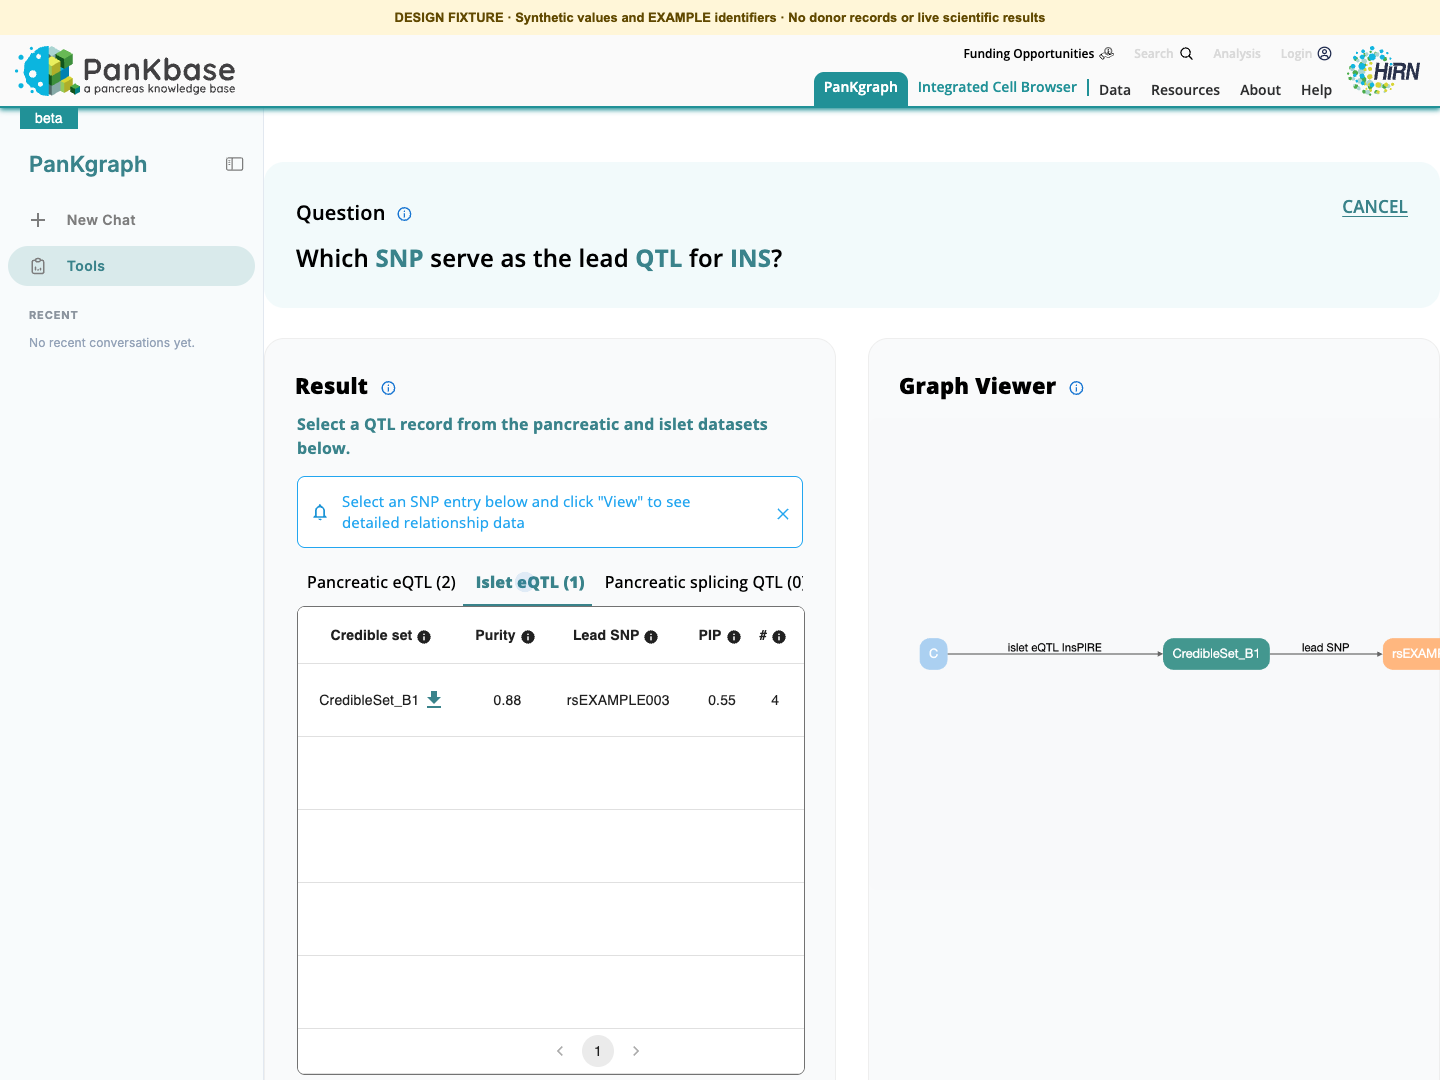
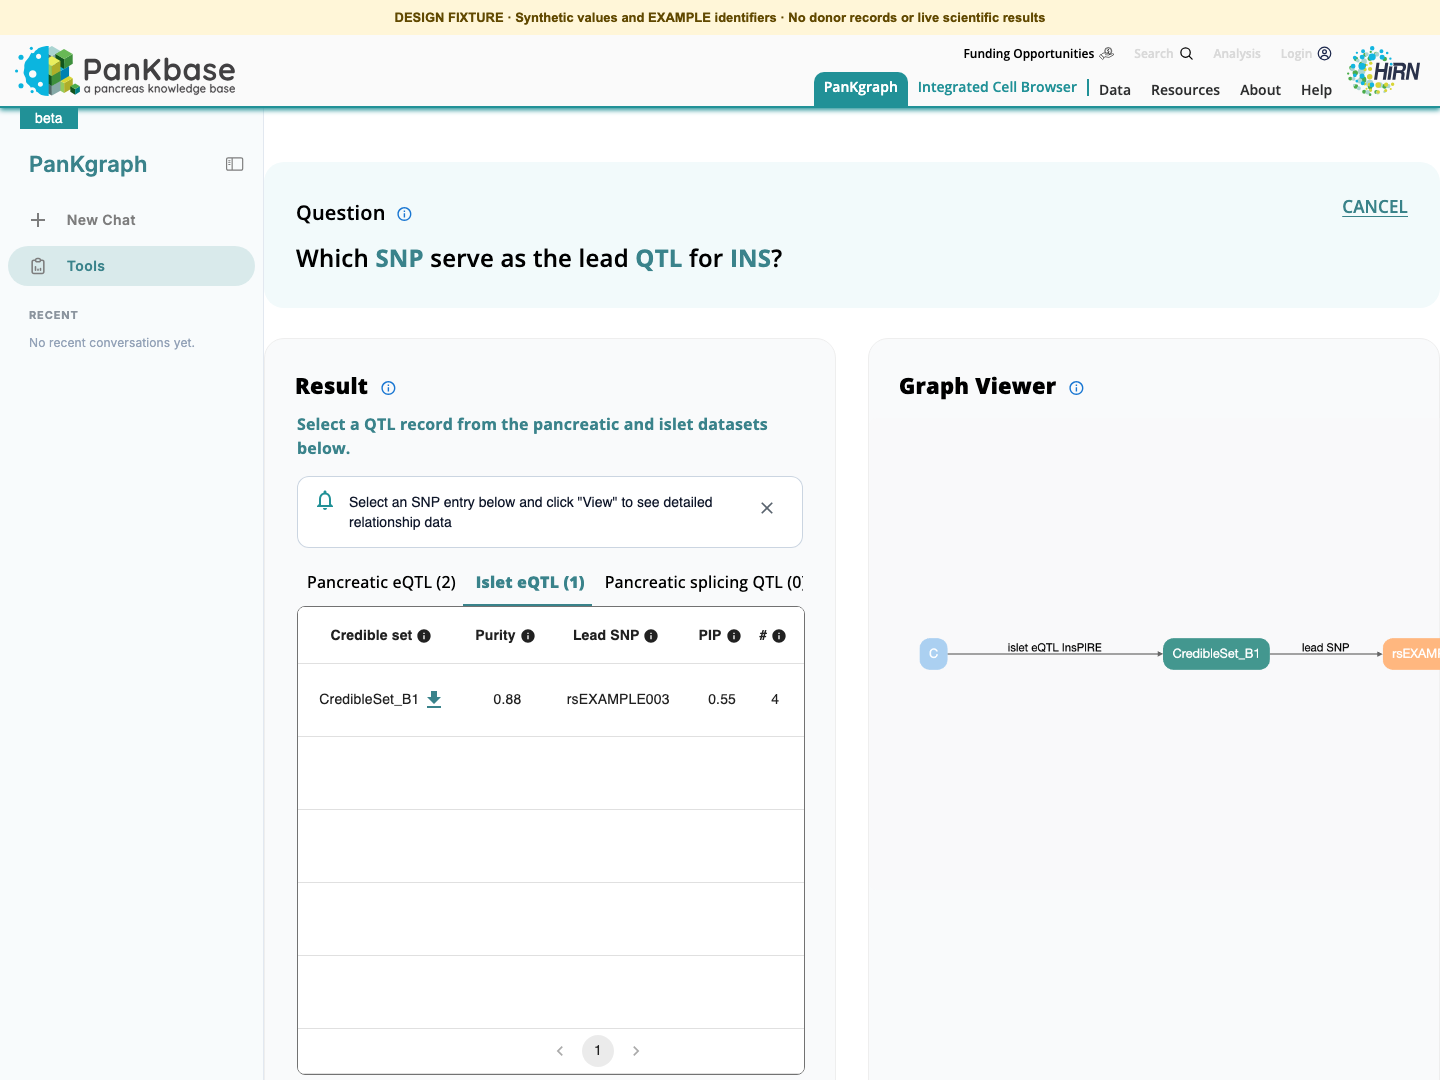
design: sync preview screenshots with the redesigned message and recovery pages
Regenerate screenshots/*.png (1440x1080) for all 12 recovery dialogs, the
3 empty/error states and the 6 pages with restyled alert banners, so the
gallery and navigation-tree previews match the implemented pages.

Add scripts/capture.py: headless Google Chrome capture of any screen or
group from the live HTML with ?capture=1; documented in README and the
design-system "Adding a new design" steps.

diff --git a/design/pankgraph-atlas/scripts/capture.py b/design/pankgraph-atlas/scripts/capture.py
@@ -1,0 +1,55 @@
+#!/usr/bin/env python3
+"""Regenerate preview screenshots (screenshots/<id>.png, 1440x1080) from the live page HTML.
+
+Usage:  python3 scripts/capture.py [--server http://127.0.0.1:8000] <screen-id> [<screen-id> ...]
+        python3 scripts/capture.py --group "Recovery dialogs" --group "Empty & error states"
+Requires Google Chrome (macOS) and the atlas served over HTTP (python3 serve or `python3 -m http.server`).
+Pages load with ?capture=1 so the atlas toolbar is hidden, exactly like the original captures.
+"""
+import argparse, json, pathlib, shutil, subprocess, sys, tempfile, time
+
+ROOT = pathlib.Path(__file__).resolve().parent.parent
+CHROME = "/Applications/Google Chrome.app/Contents/MacOS/Google Chrome"
+W, H = 1440, 1080
+
+def main():
+    ap = argparse.ArgumentParser()
+    ap.add_argument("ids", nargs="*")
+    ap.add_argument("--group", action="append", default=[])
+    ap.add_argument("--server", default="http://127.0.0.1:8000")
+    a = ap.parse_args()
+    screens = json.loads((ROOT / "inventories/screens.json").read_text())
+    screens = screens.get("screens", screens) if isinstance(screens, dict) else screens
+    ids = list(a.ids) + [s["id"] for s in screens if s.get("group") in a.group]
+    if not ids:
+        sys.exit("no screen ids given")
+    if not pathlib.Path(CHROME).exists():
+        sys.exit(f"Chrome not found at {CHROME}")
+    profile = tempfile.mkdtemp(prefix="atlas-capture-")
+    failed = []
+    for sid in ids:
+        out = ROOT / "screenshots" / f"{sid}.png"
+        url = f"{a.server}/pages/{sid}.html?capture=1"
+        cmd = [CHROME, "--headless=new", "--disable-gpu", "--hide-scrollbars", "--no-first-run",
+               f"--user-data-dir={profile}", f"--window-size={W},{H}", "--force-device-scale-factor=1",
+               "--virtual-time-budget=4000", f"--screenshot={out}", url]
+        # headless Chrome writes the PNG then may keep running: wait for a stable file, then stop it.
+        if out.exists(): out.unlink()
+        proc = subprocess.Popen(cmd, stdout=subprocess.DEVNULL, stderr=subprocess.DEVNULL)
+        size, stable, waited = -1, 0, 0.0
+        while waited < 60 and stable < 3:
+            time.sleep(0.5); waited += 0.5
+            cur = out.stat().st_size if out.exists() else -1
+            stable = stable + 1 if (cur > 0 and cur == size) else 0
+            size = cur
+        proc.kill(); proc.wait()
+        ok = out.exists() and out.stat().st_size > 10_000
+        print(("OK   " if ok else "FAIL ") + sid)
+        if not ok:
+            failed.append(sid)
+    shutil.rmtree(profile, ignore_errors=True)
+    if failed:
+        sys.exit(f"{len(failed)} capture(s) failed: {', '.join(failed)}")
+
+if __name__ == "__main__":
+    main()

diff --git a/design/pankgraph-atlas/README.md b/design/pankgraph-atlas/README.md
@@ -82,6 +82,18 @@ The error catalog contains 108 active frontend entries, 46 backend-exposed entri
 
 The standalone operator UI and graph-layout developer demo are documented in the inventory rather than mixed into main-site screens. Documentation has one representative concept page; the distinct ontology, statistics, sources, pipeline, tutorial and use-case layouts are also captured.
 
+## Preview screenshots
+
+Gallery and navigation-tree previews are the PNGs in `screenshots/` (1440 × 1080). After changing a page, regenerate its preview from the live HTML so the preview matches the page:
+
+```sh
+python3 serve.py &   # or: python3 -m http.server 8000 --bind 127.0.0.1 --directory design/pankgraph-atlas
+python3 design/pankgraph-atlas/scripts/capture.py error-clarification            # one screen
+python3 design/pankgraph-atlas/scripts/capture.py --group "Recovery dialogs"     # a whole group
+```
+
+`capture.py` drives Google Chrome headlessly and loads each page with `?capture=1`, which hides the atlas toolbar.
+
 ## Validation
 
 Run `scripts/check.py` for local-link, asset, source-index and private-path checks. The original capture verification is recorded in `inventories/github-verification.json`. Local tree, keyboard, cross-link and responsive verification is recorded in `inventories/navigation-verification.json`. No live application endpoint, model inference or production deployment is part of this handoff.

diff --git a/design/pankgraph-atlas/DESIGN-SYSTEM.md b/design/pankgraph-atlas/DESIGN-SYSTEM.md
@@ -105,3 +105,4 @@ Material color roles mapped to the PanKbase palette: `primary` teal `rgb(33 145 
 1. Link `../styles/design-tokens.css` first, then the component sheets the page needs: `recovery-dialog.css` for any recovery dialog, `message-states.css` for any page with alerts, empty/error panels or text inputs, or a new `styles/<component>.css` for a new component.
 2. Reuse existing component sheets where the component already exists; extend a token rather than adding a literal.
 3. Run `python3 scripts/check_tokens.py` and `python3 scripts/check.py` before committing.
+4. Regenerate the page's preview with `python3 scripts/capture.py <screen-id>` so the gallery and navigation-tree thumbnails show the current design.
